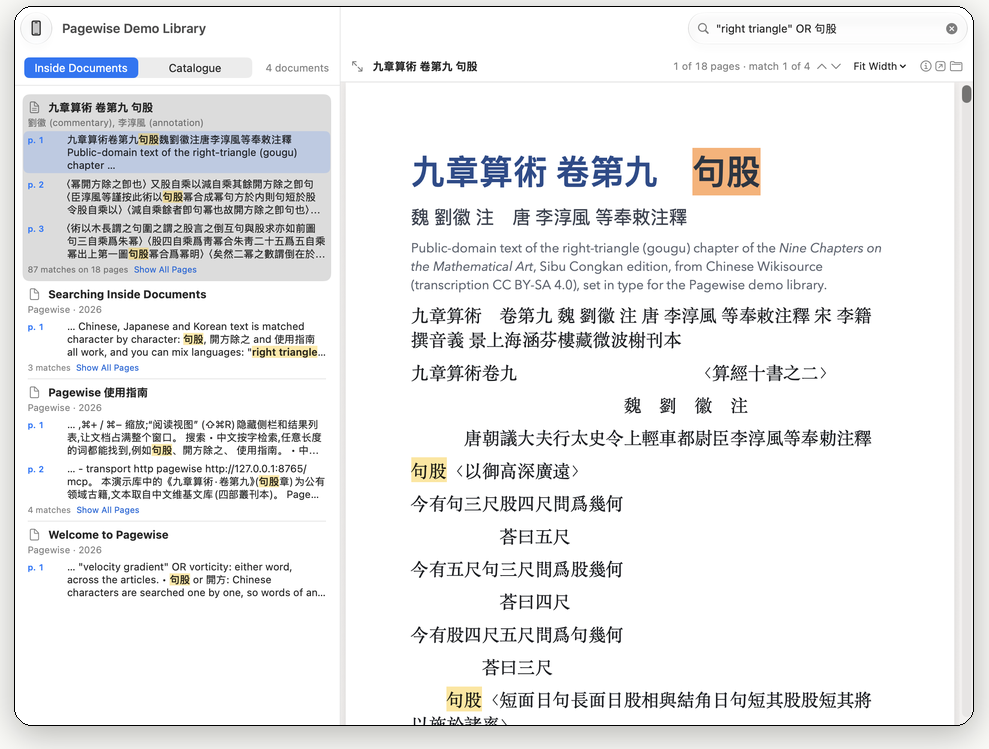
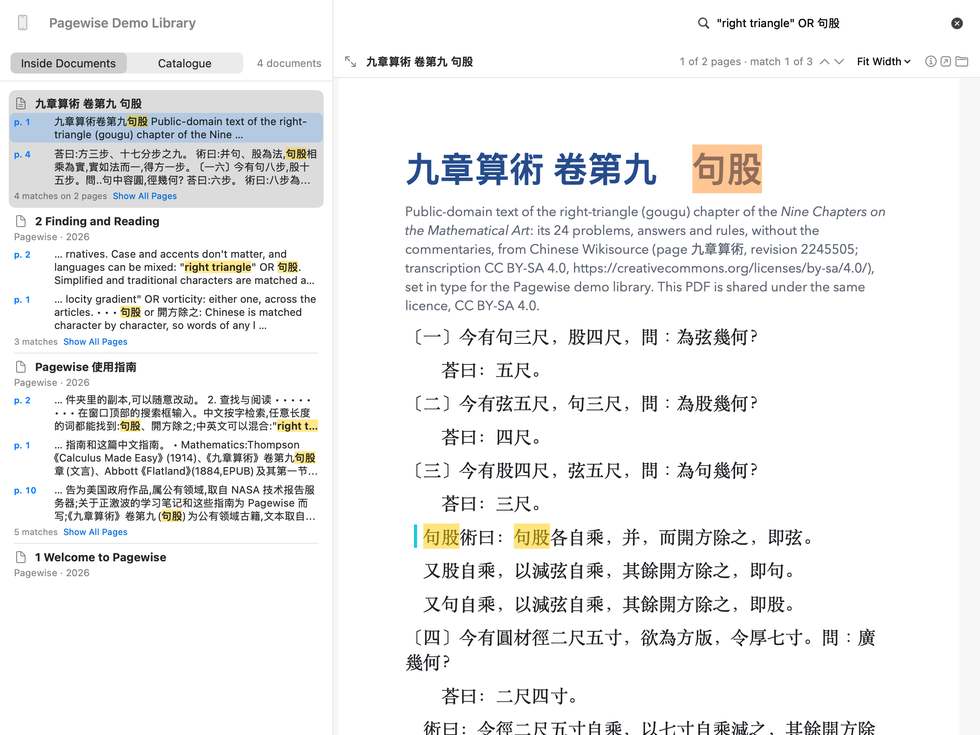
Screenshots from 0.6.0's demo, and recordings, videos and photos
Screenshots 1, 2, 3, 5 and 6 made again from 0.6.0 and its demo library (they showed
0.2.4). A feature "Recordings, videos and photos" (#media) shows the LibriVox recording
with its transcript; the hero's "New in 0.6" line links to it. Both languages.

Claude-Session: https://claude.ai/code/session_01B2LBzdfjyb7HxsHFaCze8E

Changed region(s): [[0.0, 0.0, 1.0, 1.0], [0.3673, 0.0599, 0.4898, 0.1197]]

diff --git a/index.html b/index.html
@@ -45,7 +45,7 @@
 <div class="hero">
   <div class="wrap">
     <span class="pill"><span class="en">Free beta for Mac</span><span class="zh">Mac 免费测试版</span></span>
-    <a class="pill link" href="#features"><span class="en">New in 0.6: notes on Markdown, photos, recordings and videos →</span><span class="zh">0.6 新功能：Markdown、照片、录音和视频都能写笔记 →</span></a>
+    <a class="pill link" href="#media"><span class="en">New in 0.6: notes on Markdown, photos, recordings and videos →</span><span class="zh">0.6 新功能：Markdown、照片、录音和视频都能写笔记 →</span></a>
     <h1>
       <span class="en">A knowledge base you can trust.</span>
       <span class="zh">一个值得信赖的知识库。</span>
@@ -138,7 +138,7 @@
         <p><span class="en">Full-text search across every document, with the matching passages and their page numbers. Phrases, OR, NOT, prefix* and NEAR. Scanned pages can be read with Live Text.</span>
            <span class="zh">在所有文档里全文搜索，列出命中的段落和页码。支持短语、OR、NOT、前缀* 和 NEAR。扫描版的页面可以用“实况文本”识别。</span></p>
       </div>
-      <img class="shot" src="assets/1-search.png" alt="Search results with highlighted passages and page numbers" loading="lazy" width="969" height="734">
+      <img class="shot" src="assets/1-search.png" alt="Search results with highlighted passages and page numbers" loading="lazy" width="980" height="735">
     </div>
 
     <div class="feature">
@@ -147,7 +147,16 @@
         <p><span class="en">Click a page number and the PDF opens at that page, fitted to the window, with the match marked and your search words highlighted, on scanned pages too. ⌘G goes to the next match; Reading View gives the page the whole window. EPUB books open in Pagewise too.</span>
            <span class="zh">点击页码，PDF 就在那一页打开，页面适合窗口宽度，当前命中标出、搜索词高亮显示，扫描页也一样。⌘G 跳到下一个命中；“阅读视图”让页面占满整个窗口。EPUB 电子书也能在 Pagewise 里直接阅读。</span></p>
       </div>
-      <img class="shot" src="assets/2-page.png" alt="A PDF opened at the matching page with the search words highlighted" loading="lazy" width="811" height="769">
+      <img class="shot" src="assets/2-page.png" alt="A PDF opened at a matching page with the search word marked" loading="lazy" width="811" height="778">
+    </div>
+
+    <div class="feature" id="media">
+      <div class="text">
+        <h3><span class="en">Recordings, videos and photos</span><span class="zh">录音、视频和照片</span><span class="new"><span class="en">New</span><span class="zh">新</span></span></h3>
+        <p><span class="en">A recording or a video plays in Pagewise, and a note sits at its moment, as a tick on the timeline; on a video it can keep the frame. <b>Transcribe…</b> turns the speech into text on your Mac, only when you ask, or you can use a subtitles file. The transcript is searchable: a search opens the recording at its words, and a passage you quote is labelled “From the transcript”. Photos, Markdown and text files open in Pagewise too, with your notes on them.</span>
+           <span class="zh">录音和视频在 Pagewise 里播放，笔记记在某个时刻，显示为时间轴上的一个刻度；视频上的笔记还可以保留那一帧画面。“Transcribe…”只在你要求时、在你的 Mac 上把其中的话语转写成文字，也可以使用字幕文件。转写稿可以搜索：搜索结果直接打开到录音里说这些话的时刻，你引用的段落会标明“From the transcript”。照片、Markdown 和纯文本文件也能在 Pagewise 里打开，同样可以写笔记。</span></p>
+      </div>
+      <img class="shot" src="assets/10-recording.png" alt="A LibriVox recording opened from a search for “penny”: the player with a note's tick on its timeline, and the transcript with the matching words lit" loading="lazy" width="980" height="735">
     </div>
 
     <div class="feature">
@@ -156,7 +165,7 @@
         <p><span class="en">Chinese, Japanese and Korean included, and mixed searches such as <code>"right triangle" OR 句股</code>.</span>
            <span class="zh">中文、日文、韩文都能搜，也能中英混合搜索，例如 <code>"right triangle" OR 句股</code>。</span></p>
       </div>
-      <img class="shot" src="assets/3-languages.png" alt="Searching a classical Chinese text" loading="lazy" width="989" height="749">
+      <img class="shot" src="assets/3-languages.png" alt="Searching a classical Chinese text" loading="lazy" width="980" height="735">
     </div>
 
     <div class="feature">
@@ -255,7 +264,7 @@
         <p><span class="en">Other apps take the same address, or start the included <code>pagewise</code> command themselves. It also serves scripts.</span>
            <span class="zh">其他应用填写同一个地址即可，也可以自己启动附带的 <code>pagewise</code> 命令；脚本同样可以使用它。</span></p>
       </div>
-      <img class="shot dark" src="assets/6-agents.png" alt="An AI assistant calling Pagewise's search tool" loading="lazy" width="940" height="740">
+      <img class="shot dark" src="assets/6-agents.png" alt="An AI assistant reading a concept from Pagewise: your explanation, and the notes and pages it cites" loading="lazy" width="960" height="630">
     </div>
     </div>
   </div>

diff --git a/assets/site.css b/assets/site.css
@@ -102,6 +102,7 @@ section h2 { font-size: clamp(28px, 3.6vw, 40px); line-height: 1.2; margin: 0 0 
 
 .feature { display: grid; grid-template-columns: minmax(0, 1fr) minmax(0, 1.35fr); gap: 48px; align-items: center; margin: 0 0 76px; }
 .feature > * { min-width: 0; }
+.feature[id] { scroll-margin-top: 84px; }
 .feature:last-child { margin-bottom: 0; }
 .features .feature:nth-child(even) { grid-template-columns: minmax(0, 1.35fr) minmax(0, 1fr); }
 .features .feature:nth-child(even) .text { order: 2; }
